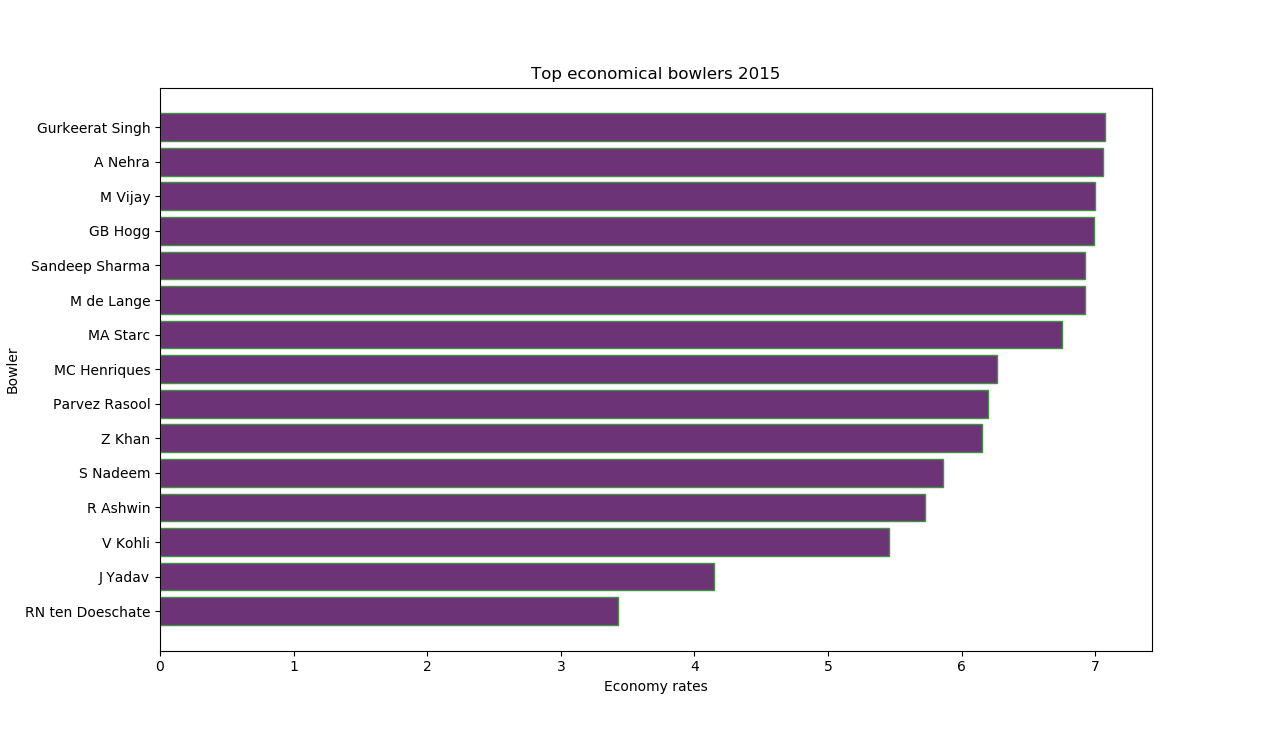
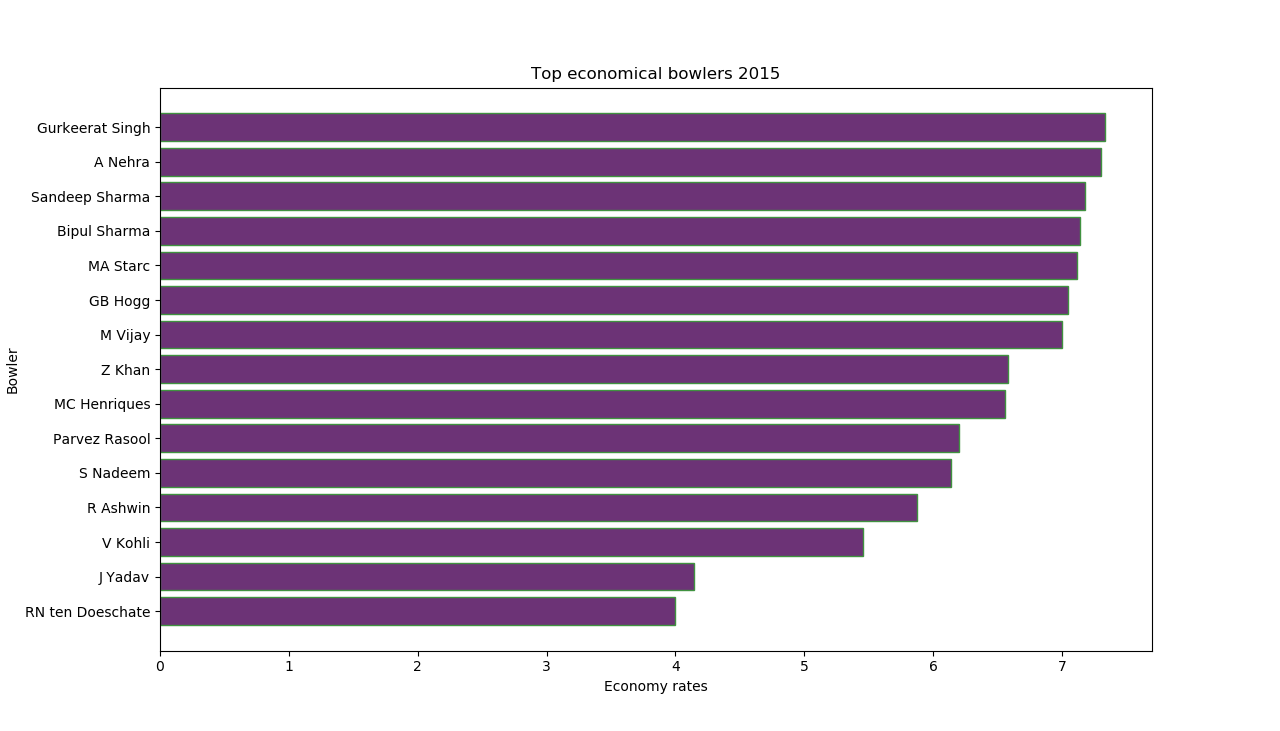
Put documentation strings for every function

diff --git a/top_economical_bowlers_2015.py b/top_economical_bowlers_2015.py
@@ -2,6 +2,9 @@ import matplotlib.pyplot as plt
 
 
 def start_and_end_match_ids(matches):
+    """Compute starting match id and ending match id from matches.csv data,
+    on the basis of season 2015 to use into deliveries.csv data
+    """
     start_id = 0
     live_id = 0
     for each in matches:
@@ -14,23 +17,33 @@ def start_and_end_match_ids(matches):
 
 
 def top_economical_bowlers(deliveries, start_id, end_id):
+    """Compute total runs conceded by each bowler and total deliveries by each bowler"""
     total_runs_per_baller = {}
     total_deliveries_per_baller = {}
     for each in deliveries:
         if int(each['match_id']) >= start_id and int(each['match_id']) <= end_id:
             if each['bowler'] not in total_runs_per_baller:
                 total_runs_per_baller[each['bowler']] = int(each['total_runs'])
-                total_deliveries_per_baller[each['bowler']] = 1
+
+                if int(each['noball_runs']) != 0 or int(each['wide_runs']) != 0:
+                    total_deliveries_per_baller[each['bowler']] = 0
+                else:
+                    total_deliveries_per_baller[each['bowler']] = 1
 
             else:
                 total_runs_per_baller[each['bowler']
                                       ] += int(each['total_runs'])
-                total_deliveries_per_baller[each['bowler']] += 1
+
+                if int(each['noball_runs']) != 0 or int(each['wide_runs']) != 0:
+                    total_deliveries_per_baller[each['bowler']] += 0
+                else:
+                    total_deliveries_per_baller[each['bowler']] += 1
 
     return total_runs_per_baller, total_deliveries_per_baller
 
 
 def plot_top_economical_bowlers(total_runs_per_baller, total_deliveries_per_baller):
+    """Compute top economical bowlers and plot horizontal bar chart for top economical bowlers"""
     total_economy_per_baller = {}
     for each in total_runs_per_baller:
         total_economy_per_baller[each] = (
@@ -65,6 +78,7 @@ def plot_top_economical_bowlers(total_runs_per_baller, total_deliveries_per_ball
 
 
 def compute_and_plot_top_economical_bowlers(matches, deliveries):
+    """Handle all the function calls here """
     start_id, end_id = start_and_end_match_ids(matches)
     total_runs_per_baller, total_deliveries_per_baller = top_economical_bowlers(
         deliveries, start_id, end_id)

diff --git a/extra_runs_conceded_per_team_2016.py b/extra_runs_conceded_per_team_2016.py
@@ -2,6 +2,9 @@ import matplotlib.pyplot as plt
 
 
 def start_and_end_match_id(matches):
+    """Compute starting match id and ending match id from matches.csv data,
+    on the basis of season 2016 to use into deliveries.csv data
+    """
     start_id = 0
     live_id = 0
     for each in matches:
@@ -14,6 +17,7 @@ def start_and_end_match_id(matches):
 
 
 def extra_runs_conceded_per_team(deliveries, start_id, end_id):
+    """For every ball, Compute all the teams with their extra runs conceded """
     teams_with_extras = {}
     for each in deliveries:
         if int(each['match_id']) >= start_id and int(each['match_id']) <= end_id:
@@ -27,6 +31,7 @@ def extra_runs_conceded_per_team(deliveries, start_id, end_id):
 
 
 def plot_extra_runs_conceded_per_team(teams_with_extras):
+    """Plot horizontal bar chart for extra runs conceded by each team in season 2016 """
     teams = list(teams_with_extras.keys())
     shortened_teams = []
     for ele in teams:
@@ -44,6 +49,7 @@ def plot_extra_runs_conceded_per_team(teams_with_extras):
 
 
 def compute_and_plot_extra_runs_conceded_per_team(matches, deliveries):
+    """Handle all the function calls here """
     start_id, end_id = start_and_end_match_id(matches)
     teams_with_extras = extra_runs_conceded_per_team(
         deliveries, start_id, end_id)

diff --git a/matches_won_after_toss_decision.py b/matches_won_after_toss_decision.py
@@ -2,6 +2,8 @@ import matplotlib.pyplot as plt
 
 
 def matches_won_after_toss_decision(matches):
+    """Compute number of winning matches by toss winner and decision,
+    of either choosing bat first or field first for every season"""
     bat_field_per_year = {}
     for row in matches:
         if int(row['season']) not in bat_field_per_year:
@@ -29,6 +31,7 @@ def matches_won_after_toss_decision(matches):
 
 
 def plot_matches_won_after_toss_decision(bat_field_per_year):
+    """Plot stacked bar chart for number of winning matches after toss decision as bat/field"""
     sorted_bat_field_per_year = {}
     for year in sorted(bat_field_per_year.keys()):
         sorted_bat_field_per_year[int(year)] = bat_field_per_year[year]
@@ -54,5 +57,6 @@ def plot_matches_won_after_toss_decision(bat_field_per_year):
 
 
 def compute_and_plot_matches_won_after_toss_decision(matches):
+    """Handle all the function calls here """
     bat_field_per_year = matches_won_after_toss_decision(matches)
     plot_matches_won_after_toss_decision(bat_field_per_year)

diff --git a/main.py b/main.py
@@ -7,6 +7,7 @@ from matches_won_after_toss_decision import *
 
 
 def read_matches():
+    """Fetch the matches.csv data into ordered dictionary format"""
     with open('/Users/suryakantkumar/MountBlueSpace/2020.02.20/IPL-Data-Project/ipl/matches.csv') as f_matches:
         matches = csv.DictReader(f_matches)
         # Retuning list of dictionaries i.e, matches data
@@ -14,6 +15,7 @@ def read_matches():
 
 
 def read_deliveries():
+    """Fetch the deliveries.csv data into ordered dictionary format"""
     with open('/Users/suryakantkumar/MountBlueSpace/2020.02.20/IPL-Data-Project/ipl/deliveries.csv') as f_deliveries:
         deliveries = csv.DictReader(f_deliveries)
         # Returning list of dictionaries i.e, deliveries data
@@ -21,6 +23,7 @@ def read_deliveries():
 
 
 def main():
+    """Call all the main functions of each scenario"""
     matches = read_matches()
     deliveries = read_deliveries()
     compute_and_plot_matches_played_per_year(matches)

diff --git a/matches_played_per_year.py b/matches_played_per_year.py
@@ -2,6 +2,7 @@ import matplotlib.pyplot as plt
 
 
 def matches_played_per_year(matches):
+    """Compute number of matches played per year """
     mppy = {}                           # Matches played per year
     for pys in matches:                 # per year status
         if pys['season'] in mppy:
@@ -17,6 +18,7 @@ def matches_played_per_year(matches):
 
 
 def plot_matches_played_per_year(matches_per_year):
+    """Plot bar chart for number of matches played per year """
     years = []
     matches_played = []
 
@@ -35,5 +37,6 @@ def plot_matches_played_per_year(matches_per_year):
 
 
 def compute_and_plot_matches_played_per_year(matches):
+    """Handle all the function calls here """
     matches_per_year = matches_played_per_year(matches)
     plot_matches_played_per_year(matches_per_year)

diff --git a/matches_won_by_teams_per_year.py b/matches_won_by_teams_per_year.py
@@ -2,6 +2,7 @@ import matplotlib.pyplot as plt
 
 
 def matches_won_by_team_per_year(matches):
+    """Compute matches won by each team per season"""
     result = {}
     years = set()
     for each in matches:
@@ -39,6 +40,7 @@ def matches_won_by_team_per_year(matches):
 
 
 def plot_matches_won_by_team_per_year(mwbtpy, years):
+    """Plot stacked bar chart for matches won by each team per season"""
     bottom_li = [0 for i in range(len(years))]
     teams = []
     for team in mwbtpy:
@@ -64,5 +66,6 @@ def plot_matches_won_by_team_per_year(mwbtpy, years):
 
 
 def compute_and_plot_matches_won_by_teams_per_year(matches):
+    """Handle all the function calls here """
     mwbtpy, teams = matches_won_by_team_per_year(matches)
     plot_matches_won_by_team_per_year(mwbtpy, teams)
